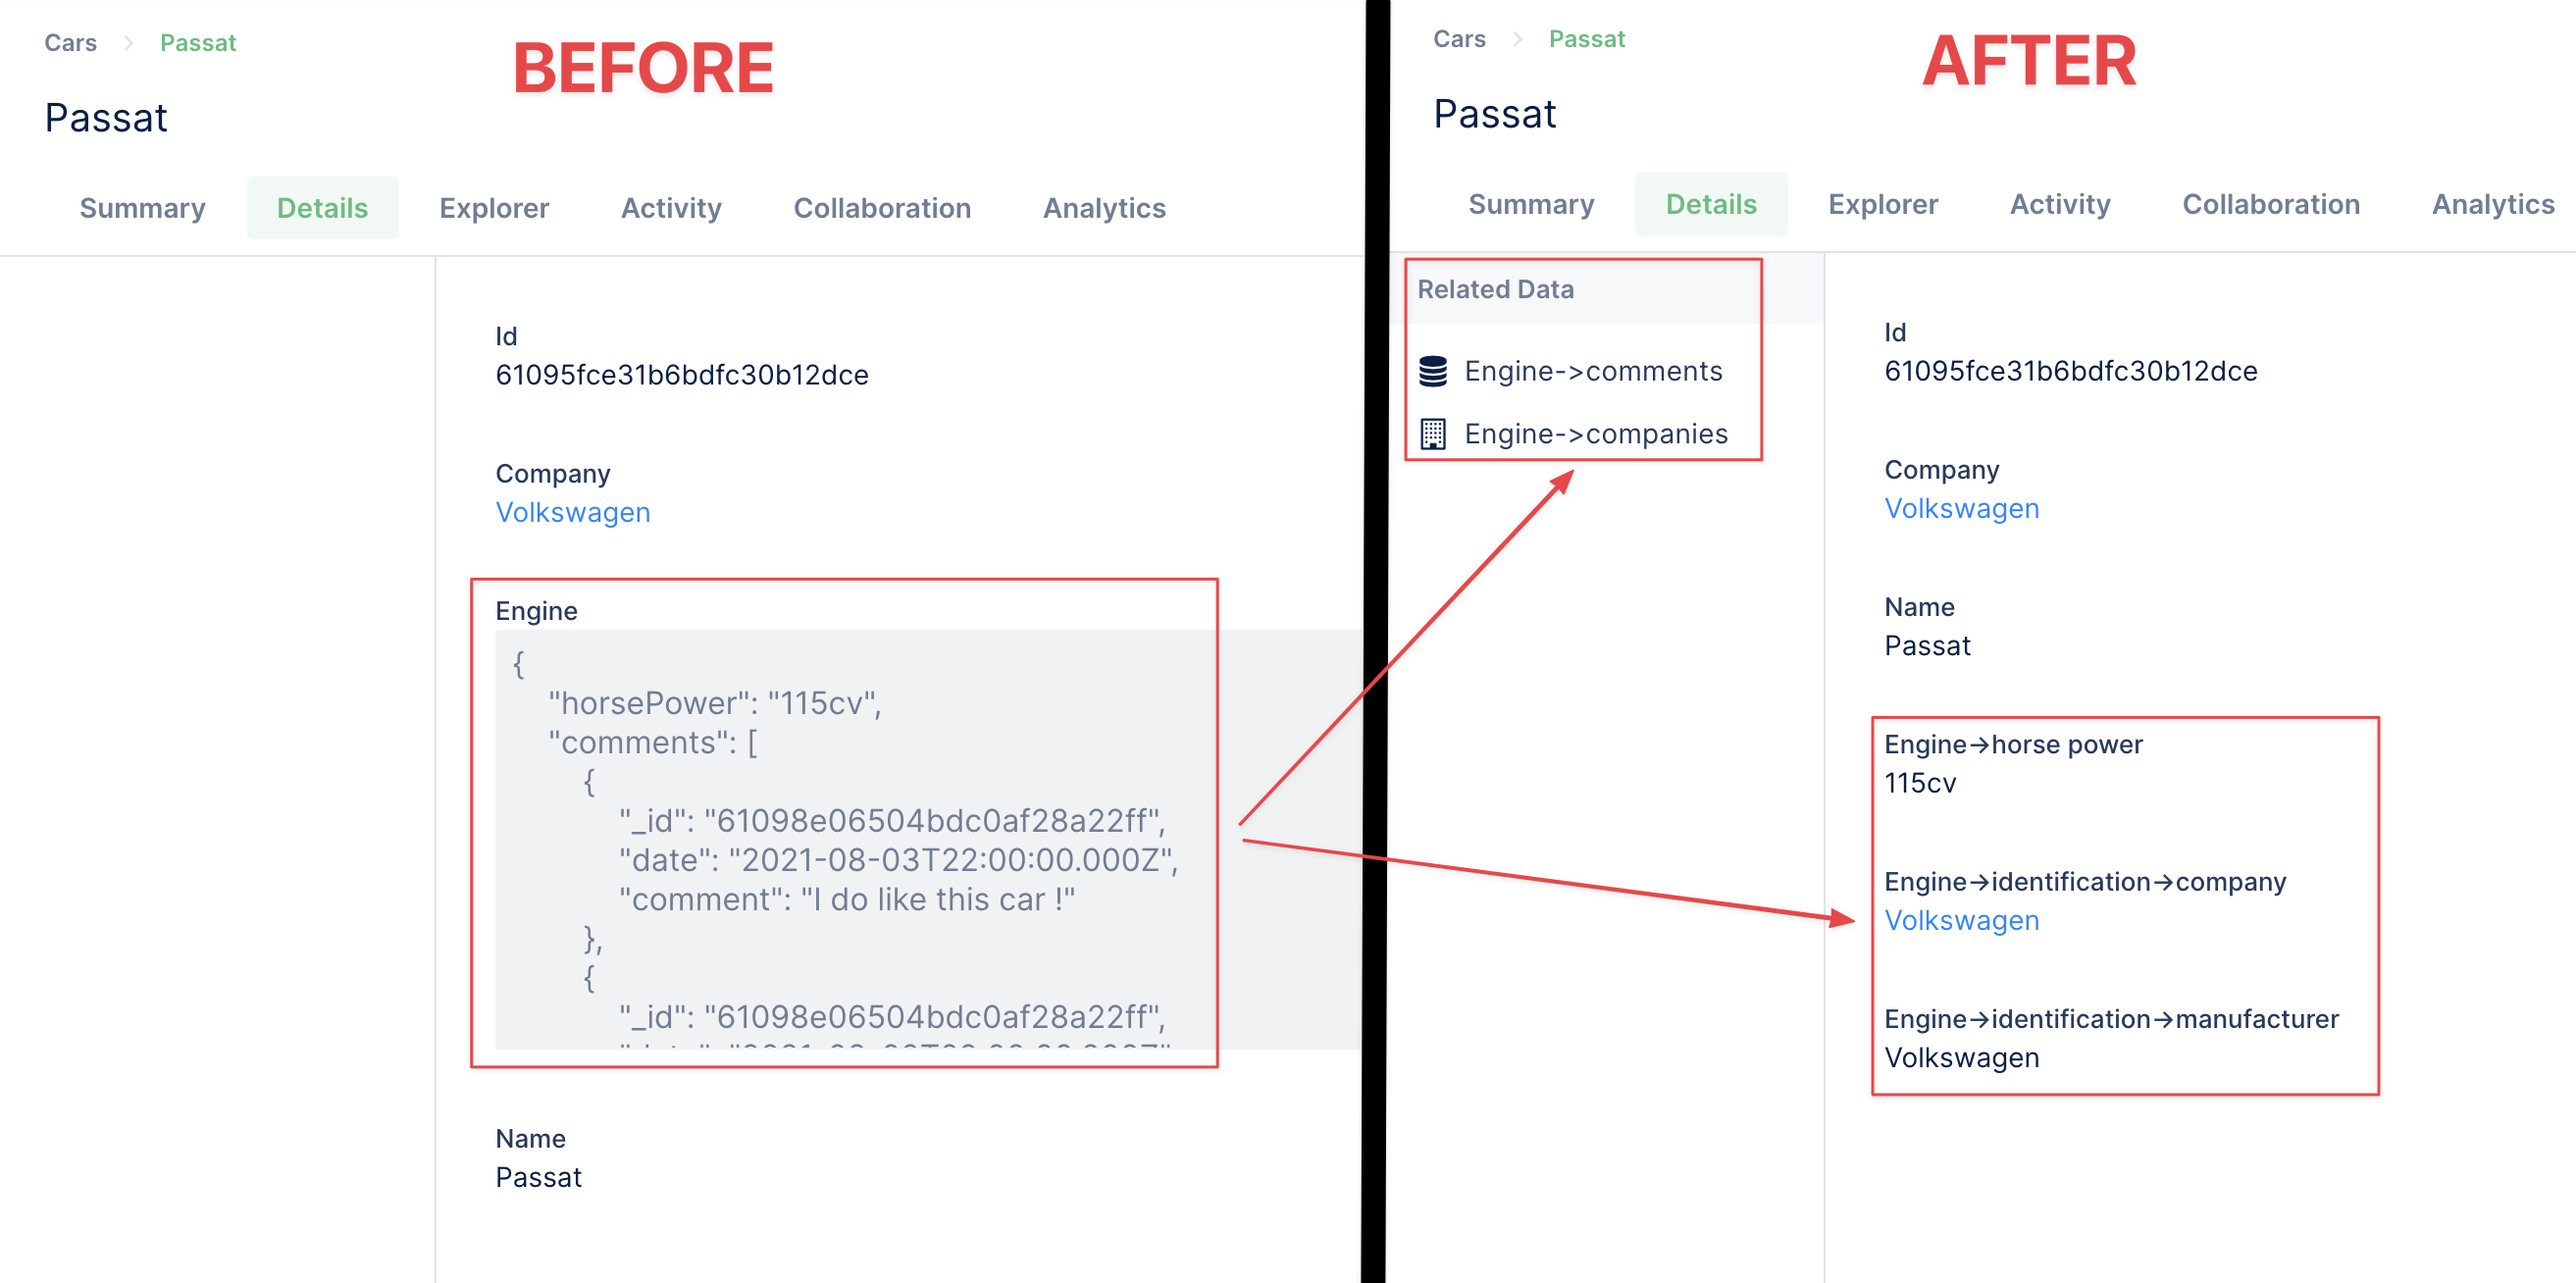
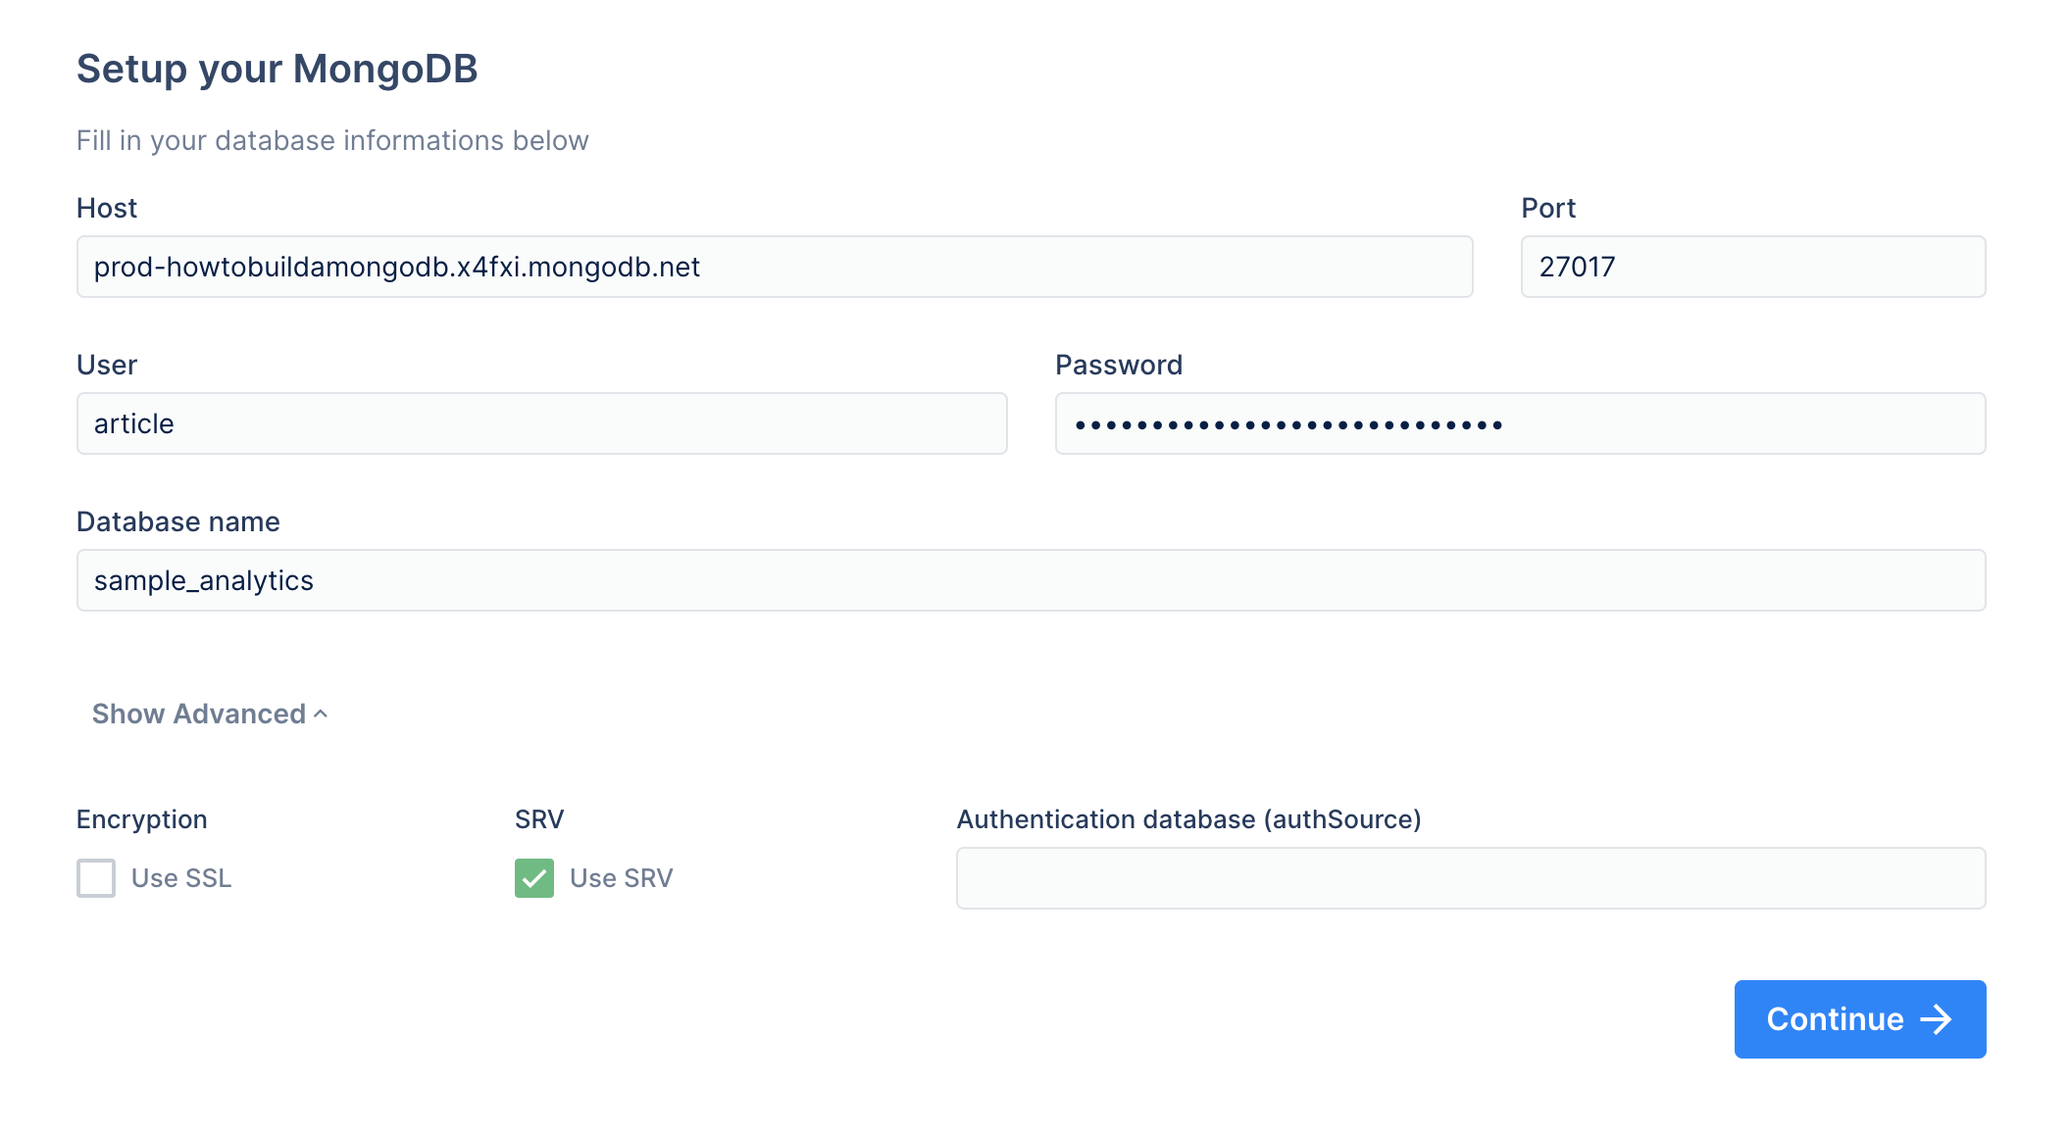
GitBook: [#3] Use a demo mongodb database

diff --git a/SUMMARY.md b/SUMMARY.md
@@ -152,7 +152,8 @@
   * [Migrate to the new role system](how-tos/maintain/migrate-to-the-new-role-system.md)
   * [Migrate to the new Development Workflow](how-tos/maintain/migrate-to-the-new-development-workflow.md)
 * [Databases](how-tos/databases/README.md)
-  * [Use a demo database](how-tos/databases/use-a-demo-database.md)
+  * [Use a demo SQL database](how-tos/databases/use-a-demo-database.md)
+  * [Use a demo MongoDB database](how-tos/databases/use-a-demo-mongodb-database.md)
   * [Populate a postgreSQL database on Heroku](how-tos/databases/populate-a-postgresql-database-on-heroku.md)
   * [Connect to a read replica database](how-tos/databases/connect-to-a-read-replica-database.md)
   * [Plug multiple schemas](how-tos/databases/plug-multiple-schemas.md)

diff --git a/how-tos/databases/use-a-demo-mongodb-database.md b/how-tos/databases/use-a-demo-mongodb-database.md
@@ -1,0 +1,22 @@
+# Use a demo MongoDB database
+
+Want to try out Forest Admin with MongoDB but don't have a database to try it with?&#x20;
+
+You can connect to our **demo MongoDB database**!
+
+{% hint style="info" %}
+You won't get the full Forest Admin experience as this database is read-only.
+{% endhint %}
+
+To connect, you'll need the following credentials:
+
+* Host: `http://prod-howtobuildamongodb.x4fxi.mongodb.net/`
+* User: `article`
+* Password: `CAx3jRn%gx4Y3kts**VHBVYZRSx@`
+* database: `sample_analytics`
+
+{% hint style="warning" %}
+Don’t forget to tick **Use SRV** in the advanced settings.
+{% endhint %}
+
+![](<../../.gitbook/assets/image (529).png>)

diff --git a/how-tos/setup/flatten-nested-fields-mongodb.md b/how-tos/setup/flatten-nested-fields-mongodb.md
@@ -12,7 +12,7 @@ By default, Forest Admin will use [JSON widgets](https://docs.forestadmin.com/do
 
 In order to be able to display each field separately, you can flatten the sub-document.
 
-![](<../../.gitbook/assets/image (529).png>)
+![](<../../.gitbook/assets/image (529) (1).png>)
 
 ## Configuring the fields to flatten <a href="#configuring-the-fields-to-flatten" id="configuring-the-fields-to-flatten"></a>
 
